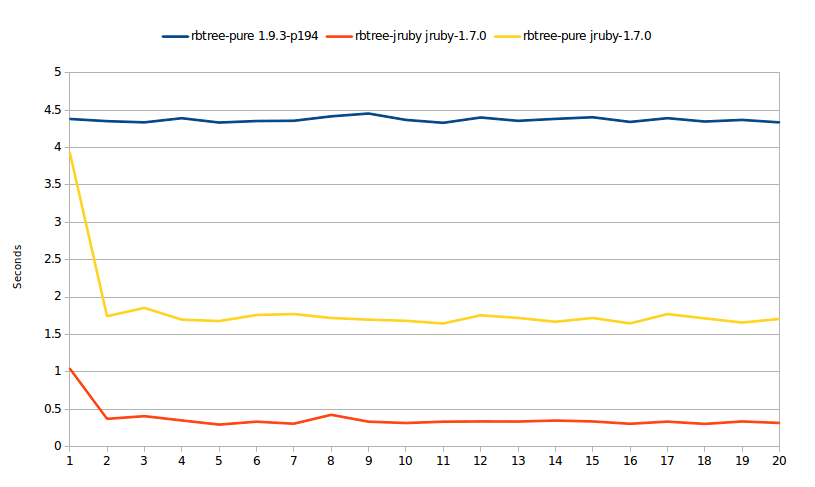
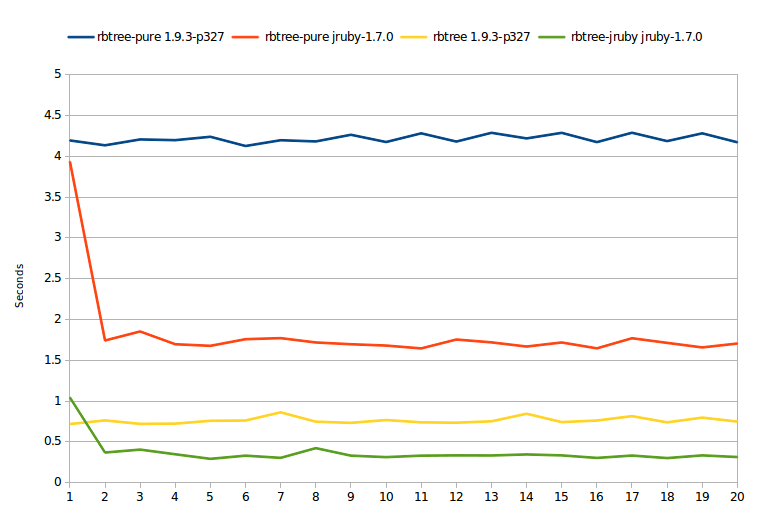
udpate benchmark by add c implementation

diff --git a/README.md b/README.md
@@ -59,8 +59,11 @@ Benchmarks
 -----------
 
 Benchmark takes from headius' [redblack](https://github.com/headius/redblack) project.
-Compared to [rbtree-pure](https://github.com/pwnall/rbtree-pure).
+Compared to [rbtree-pure](https://github.com/pwnall/rbtree-pure) and
+[rbtree c extention](https://github.com/skade/rbtree).
 ![benchmark result](https://raw.github.com/isaiah/rbtree-jruby/master/benchmark/result.png)
+
+For details, checkout [benchmark directory](https://github.com/isaiah/rbtree-jruby/tree/master/benchmark).
 
 Requirement
 -----------
